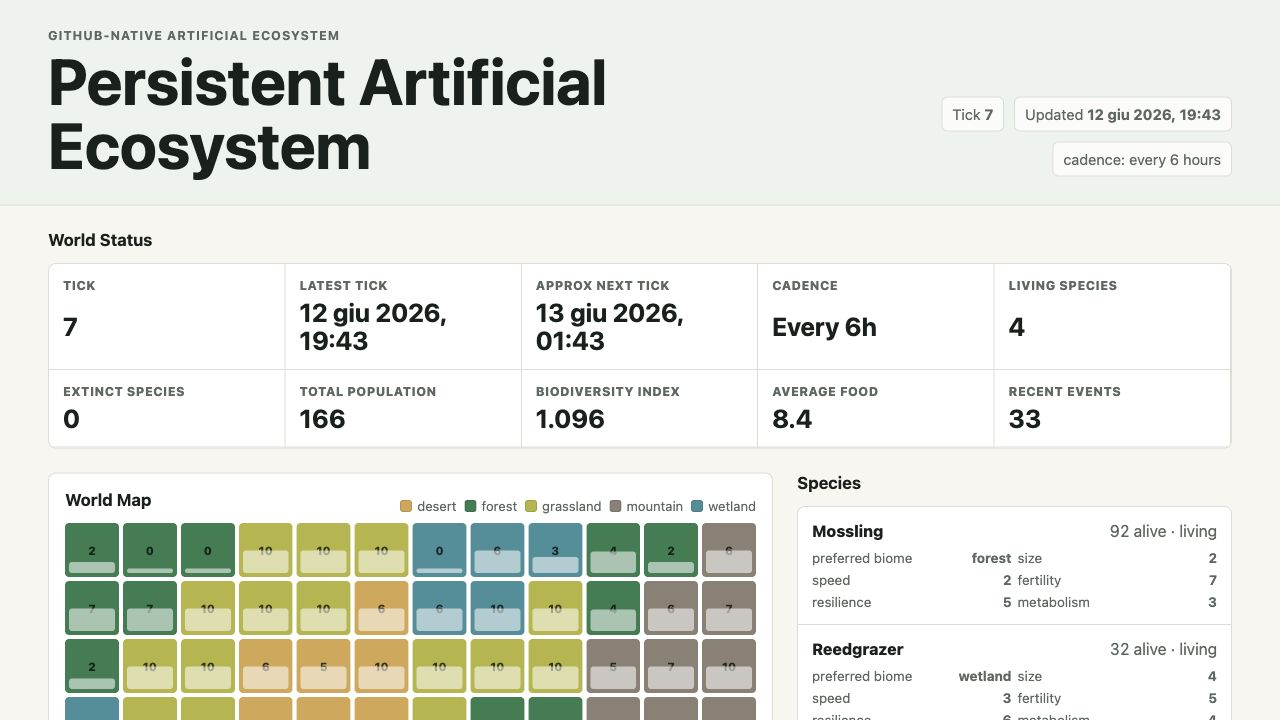
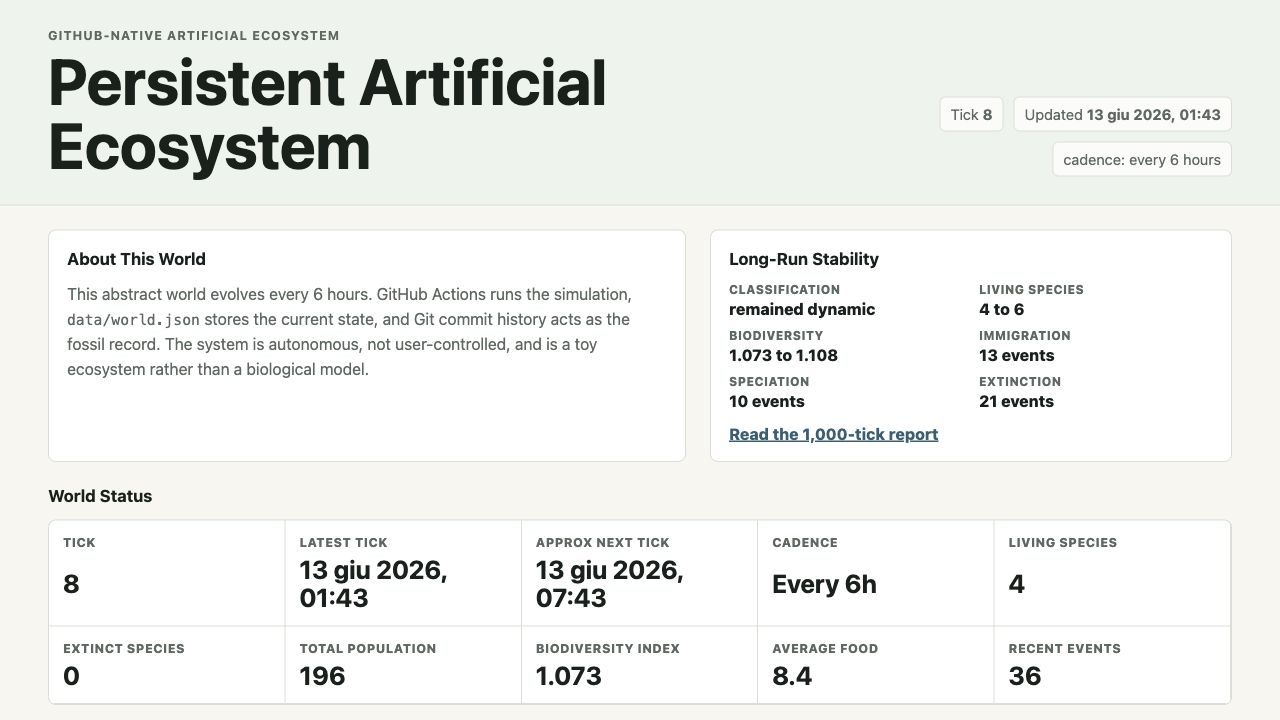
Improve public presentation of ecosystem

diff --git a/styles.css b/styles.css
@@ -94,13 +94,75 @@ section {
 .species-list,
 .events,
 .status-grid,
+.memory-grid,
 .fossil-record {
   border: 1px solid var(--line);
   border-radius: 8px;
   background: var(--panel);
 }
 
+.about-section {
+  display: grid;
+  grid-column: 1 / -1;
+  grid-template-columns: minmax(0, 1.1fr) minmax(280px, 0.9fr);
+  gap: 24px;
+  align-items: stretch;
+}
+
+.about-copy,
+.long-run-card {
+  padding: 18px;
+  border: 1px solid var(--line);
+  border-radius: 8px;
+  background: var(--panel);
+}
+
+.about-copy p {
+  max-width: 72ch;
+  margin-bottom: 0;
+  color: var(--muted);
+  line-height: 1.55;
+}
+
+code {
+  font-family: ui-monospace, SFMono-Regular, Menlo, Consolas, monospace;
+  font-size: 0.92em;
+}
+
+.long-run-card dl {
+  display: grid;
+  grid-template-columns: repeat(2, minmax(0, 1fr));
+  gap: 10px 16px;
+  margin: 0 0 14px;
+}
+
+.long-run-card div {
+  min-width: 0;
+}
+
+.long-run-card dt {
+  color: var(--muted);
+  font-size: 0.75rem;
+  font-weight: 800;
+  letter-spacing: 0.04em;
+  text-transform: uppercase;
+}
+
+.long-run-card dd {
+  margin: 3px 0 0;
+  font-weight: 800;
+}
+
+.long-run-card a {
+  color: var(--accent);
+  font-weight: 800;
+}
+
 .status-section {
+  grid-column: 1 / -1;
+}
+
+.memory-section {
   grid-column: 1 / -1;
 }
 
@@ -110,7 +172,14 @@ section {
   overflow: hidden;
 }
 
-.status-item {
+.memory-grid {
+  display: grid;
+  grid-template-columns: repeat(3, minmax(0, 1fr));
+  overflow: hidden;
+}
+
+.status-item,
+.memory-item {
   display: grid;
   gap: 6px;
   padding: 14px;
@@ -118,7 +187,8 @@ section {
   border-bottom: 1px solid var(--line);
 }
 
-.status-item span {
+.status-item span,
+.memory-item span {
   color: var(--muted);
   font-size: 0.78rem;
   font-weight: 800;
@@ -126,9 +196,14 @@ section {
   text-transform: uppercase;
 }
 
-.status-item strong {
+.status-item strong,
+.memory-item strong {
   font-size: clamp(1.1rem, 2vw, 1.65rem);
   line-height: 1.1;
+}
+
+.memory-item strong {
+  font-size: clamp(0.95rem, 1.4vw, 1.2rem);
 }
 
 .map-section {
@@ -167,6 +242,8 @@ section {
 .map {
   display: grid;
   gap: 4px;
+  width: 100%;
+  min-width: 0;
   aspect-ratio: 12 / 8;
   min-height: 320px;
 }
@@ -176,7 +253,9 @@ section {
   display: grid;
   place-items: center;
   width: 100%;
+  min-width: 0;
   min-height: 28px;
+  padding: 0;
   border: 0;
   border-radius: 4px;
   color: rgba(0, 0, 0, 0.72);
@@ -407,7 +486,12 @@ section {
     justify-content: start;
   }
 
+  .about-section {
+    grid-template-columns: 1fr;
+  }
+
   .status-grid,
+  .memory-grid,
   .cell-details dl {
     grid-template-columns: repeat(2, minmax(0, 1fr));
   }
@@ -415,6 +499,8 @@ section {
 
 @media (max-width: 520px) {
   .status-grid,
+  .memory-grid,
+  .long-run-card dl,
   .traits,
   .cell-details dl {
     grid-template-columns: 1fr;

diff --git a/app.js b/app.js
@@ -79,10 +79,51 @@ function getWorldStats(world) {
   };
 }
 
+function getWorldMemory(world) {
+  const retainedEvents = [...world.events].sort((a, b) => a.tick - b.tick);
+  const oldestEvent = retainedEvents[0];
+  const newestEvent = retainedEvents[retainedEvents.length - 1];
+  const noveltyEvents = world.events.filter((event) => event.type === "immigration" || event.type === "speciation");
+  const intervalHours = world.tickIntervalHours ?? 6;
+  const ageHours = world.tick * intervalHours;
+  const ageDays = ageHours / 24;
+
+  return {
+    oldestEvent,
+    newestEvent,
+    noveltyEvents: noveltyEvents.length,
+    ageText: ageDays >= 1 ? `${ageDays.toFixed(1)} days` : `${ageHours} hours`
+  };
+}
+
 function renderMeta(world) {
   document.querySelector("#tick").textContent = world.tick;
   document.querySelector("#updated-at").textContent = formatDate(world.updatedAt);
   document.querySelector("#data-source").textContent = `cadence: every ${world.tickIntervalHours ?? 6} hours`;
+}
+
+function renderWorldMemory(world) {
+  const memory = getWorldMemory(world);
+  const container = document.querySelector("#world-memory");
+  const items = [
+    ["Oldest retained event", memory.oldestEvent ? `Tick ${memory.oldestEvent.tick}: ${EVENT_LABELS[memory.oldestEvent.type] ?? memory.oldestEvent.type}` : "none"],
+    ["Newest event", memory.newestEvent ? `Tick ${memory.newestEvent.tick}: ${EVENT_LABELS[memory.newestEvent.type] ?? memory.newestEvent.type}` : "none"],
+    ["Known extinctions", world.extinctions.length],
+    ["Known novelty events", memory.noveltyEvents],
+    ["Current tick", world.tick],
+    ["Approx age", memory.ageText]
+  ];
+
+  container.innerHTML = items
+    .map(
+      ([label, value]) => `
+        <div class="memory-item">
+          <span>${label}</span>
+          <strong>${value}</strong>
+        </div>
+      `
+    )
+    .join("");
 }
 
 function renderStatus(world) {
@@ -303,6 +344,7 @@ async function init() {
     const world = await loadWorld();
     renderMeta(world);
     renderStatus(world);
+    renderWorldMemory(world);
     renderLegend(world);
     renderMap(world);
     renderSpecies(world);

diff --git a/index.html b/index.html
@@ -21,9 +21,38 @@
     </header>
 
     <main class="layout">
+      <section class="about-section" aria-labelledby="about-title">
+        <div class="about-copy">
+          <h2 id="about-title">About This World</h2>
+          <p>
+            This abstract world evolves every 6 hours. GitHub Actions runs the simulation,
+            <code>data/world.json</code> stores the current state, and Git commit history acts
+            as the fossil record. The system is autonomous, not user-controlled, and is a toy
+            ecosystem rather than a biological model.
+          </p>
+        </div>
+        <aside class="long-run-card" aria-labelledby="long-run-title">
+          <h2 id="long-run-title">Long-Run Stability</h2>
+          <dl>
+            <div><dt>Classification</dt><dd>remained dynamic</dd></div>
+            <div><dt>Living species</dt><dd>4 to 6</dd></div>
+            <div><dt>Biodiversity</dt><dd>1.073 to 1.108</dd></div>
+            <div><dt>Immigration</dt><dd>13 events</dd></div>
+            <div><dt>Speciation</dt><dd>10 events</dd></div>
+            <div><dt>Extinction</dt><dd>21 events</dd></div>
+          </dl>
+          <a href="reports/long-run-1000.md">Read the 1,000-tick report</a>
+        </aside>
+      </section>
+
       <section class="status-section" aria-labelledby="status-title">
         <h2 id="status-title">World Status</h2>
         <div id="world-status" class="status-grid"></div>
+      </section>
+
+      <section class="memory-section" aria-labelledby="memory-title">
+        <h2 id="memory-title">World Memory</h2>
+        <div id="world-memory" class="memory-grid"></div>
       </section>
 
       <section class="map-section" aria-labelledby="map-title">

diff --git a/README.md b/README.md
@@ -12,6 +12,15 @@ This is a small artificial ecosystem that treats GitHub as the habitat. There is
 
 Every scheduled commit becomes part of the fossil layer: the repository history is the persistence model and the audit trail.
 
+## Why GitHub?
+
+GitHub is not just hosting for this project. It is the machinery of the world:
+
+- **Actions are the clock:** scheduled workflow runs advance the simulation every six hours.
+- **JSON is the world state:** `data/world.json` is the current map, species list, event log, and RNG state.
+- **Commits are the fossil record:** each automated state update becomes a permanent historical layer.
+- **Pages is the observatory:** the static web UI lets visitors inspect the latest committed world.
+
 ## Current Features
 
 - Static web app deployable with GitHub Pages.